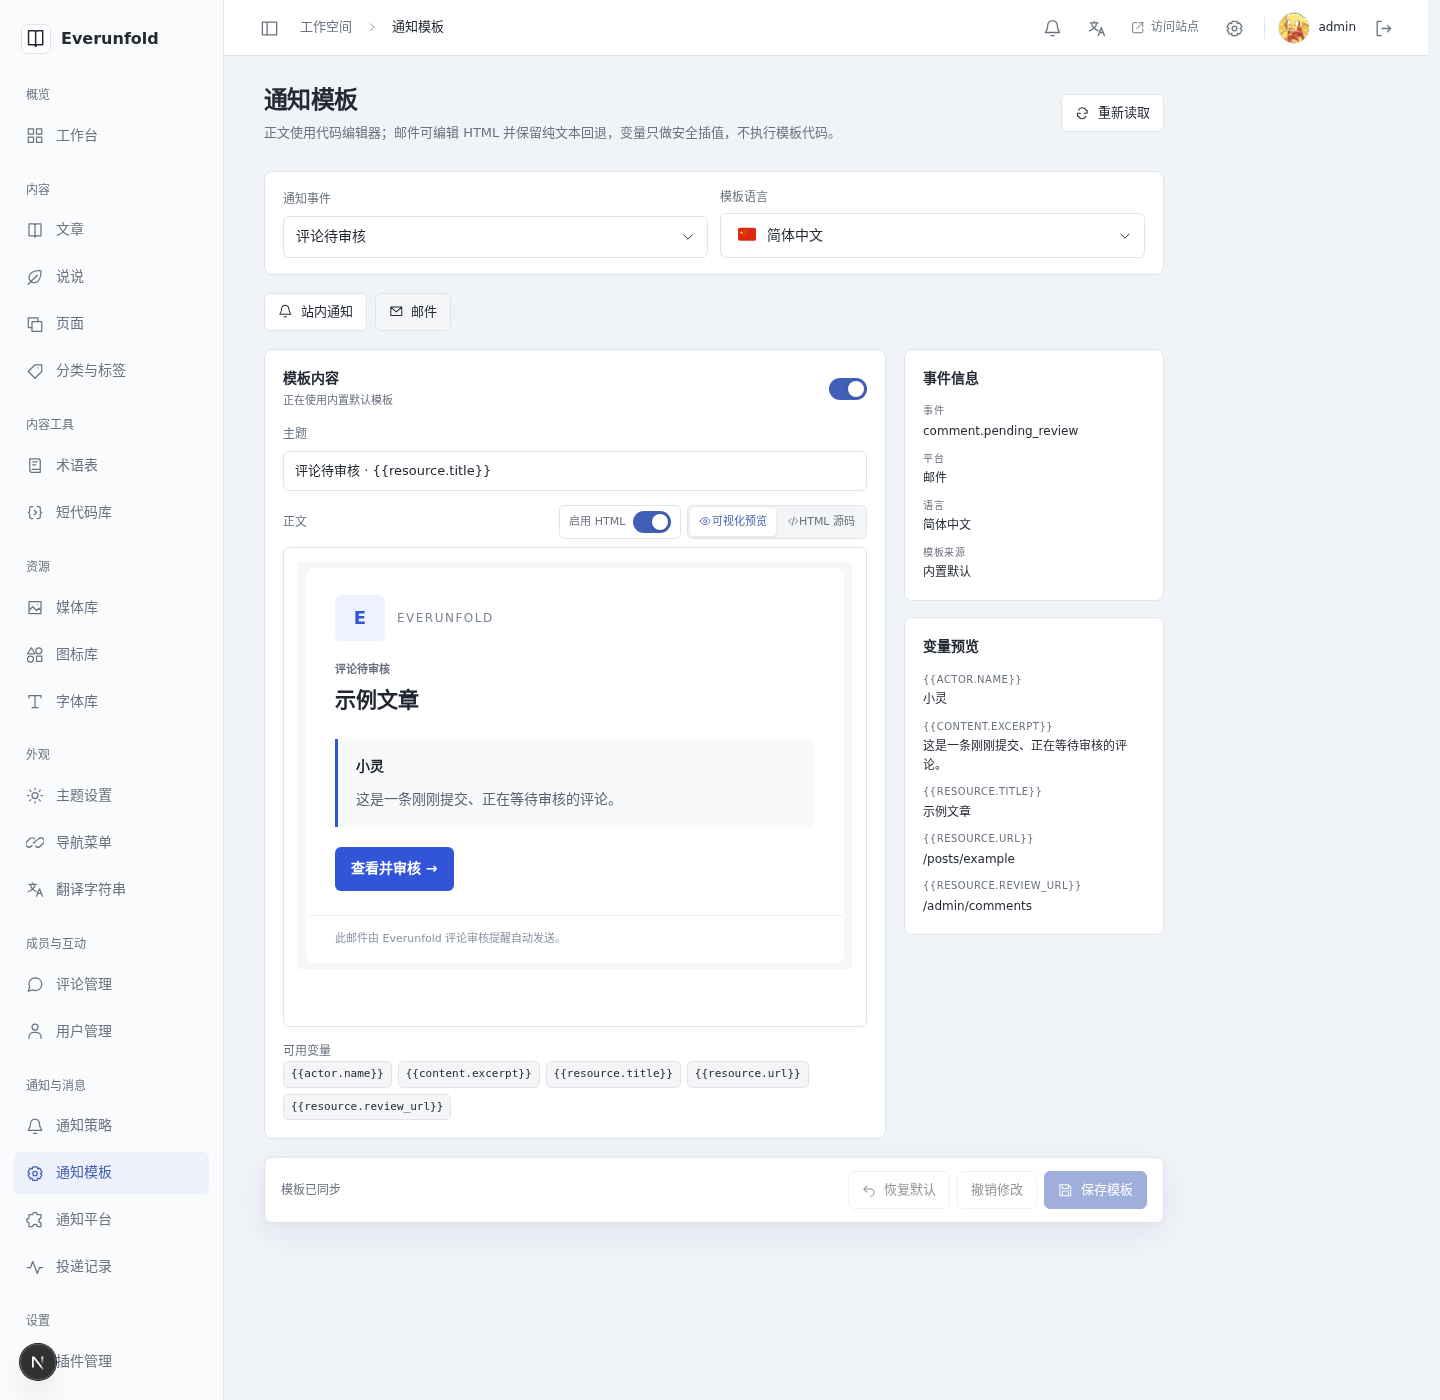
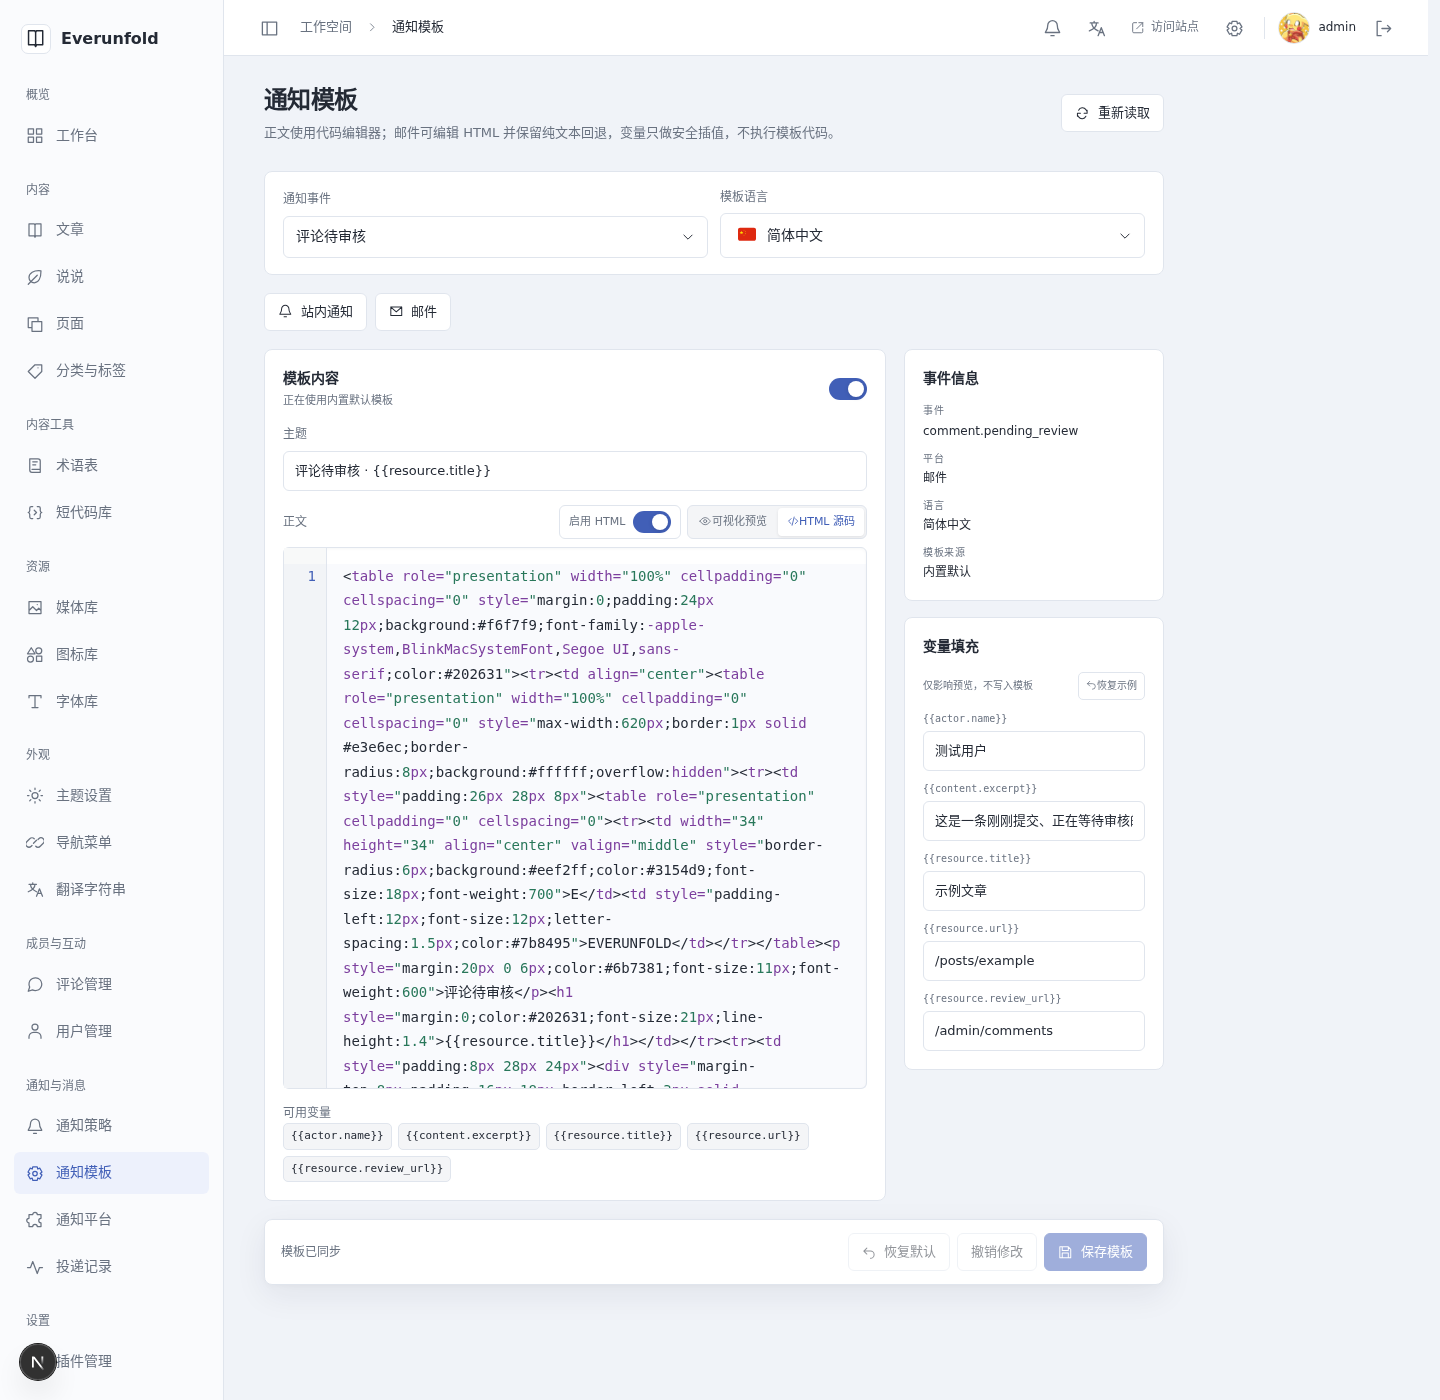
docs: separate notification preview variables

diff --git a/docs/handoff/notification-html-template-verification.md b/docs/handoff/notification-html-template-verification.md
@@ -1,6 +1,6 @@
 # 通知模板代码编辑器与 HTML 邮件验收
 
-版本：notification-html-template-verification-4。日期：2026-11-11。后端HTML开关提交`a592e1c`、前端实现见STATUS。未向外部邮箱发送邮件。
+版本：notification-html-template-verification-5。日期：2026-11-11。后端HTML开关提交`a592e1c`、前端实现见STATUS。未向外部邮箱发送邮件。
 
 ## 已实现
 
@@ -8,6 +8,7 @@
 - 邮件平台使用独立“启用 HTML”开关；关闭时编辑纯文本，开启后可切换“可视化预览 / HTML源码”，关闭不会删除HTML内容，首次启用时从现有纯文本生成安全段落。
 - 默认邮件模板改为后台风格的简约图形卡片：中性背景、细边框、小图形标识、评论摘要和单一操作入口。
 - 可用变量插入当前代码编辑器光标位置；示例人物变量由“小林”改为“小灵”。
+- 变量填充独立为右侧组件，只更新预览值，不修改模板源码；编辑器始终保留 `{{actor.name}}` 等占位符。
 - “可视化预览”直接渲染当前HTML源码，与最终邮件共用同一份内容和清洗链路；下方不再维护重复“安全预览”。
 - 后端对 HTML 变量值先转义，再过滤脚本、表单、iframe、SVG、事件属性和活动 URL。
 - 邮件以`multipart/alternative`发送，纯文本正文始终保留为回退，HTML 为可选展示版本。
@@ -20,6 +21,7 @@
 - 定向测试验证 HTML 注入值转义、脚本/事件属性清理、SMTP 多部分 MIME 和纯文本回退。
 - 1440px与390px实页检查：HTML源码编辑器1个、可视化预览iframe1个、重复“安全预览”数量为0；“小灵”可见、旧“小林”不可见，无水平溢出和`pageerror`。
 - HTML开关关闭后预览iframe数量为0、纯文本代码编辑器1个；再次开启后原HTML模板仍存在，内容未丢失。
+- 将变量 `actor.name` 填为“测试用户”后预览立即更新，切回源码仍为 `{{actor.name}}`，未写入“测试用户”，模板保持同步状态。
 - 保存链路使用浏览器请求夹具确认提交 `html`，未改开发环境中的真实通知模板。
 
 ## 证据

diff --git a/docs/README.md b/docs/README.md
@@ -1,6 +1,6 @@
 # Everunfold 文档入口
 
-[通知模板代码编辑器与 HTML 邮件](development/notifications.md)、[ADR0117](decisions/0117-html-notification-templates.md)及[验收](handoff/notification-html-template-verification.md)：邮件通过独立“启用 HTML”开关控制发送，开启后提供可视化预览与源码双视图，关闭时保留内容并使用纯文本回退。默认邮件模板采用后台一致的简约图形卡片。HTML变量先转义，再按保守标签白名单清洗，并以`multipart/alternative`发送。
+[通知模板代码编辑器与 HTML 邮件](development/notifications.md)、[ADR0117](decisions/0117-html-notification-templates.md)及[验收](handoff/notification-html-template-verification.md)：邮件通过独立“启用 HTML”开关控制发送，开启后提供可视化预览与源码双视图，关闭时保留内容并使用纯文本回退。编辑器始终保存变量占位符，变量填充独立影响预览。默认邮件模板采用后台一致的简约图形卡片。
 
 [多邮件发信配置](development/mail.md)、[ADR0116](decisions/0116-multiple-mail-sender-profiles.md)及[验收](handoff/multi-mail-profile-verification.md)：邮件配置并入“通知与消息 → 通知平台”，每站可维护最多20套 SMTP 发信身份；提醒规则可选择具体配置，未选择时使用默认配置。投递会快照配置身份和修订，停用、删除或配置变化不会静默换号；旧单配置自动兼容，原邮件设置入口保留隐藏跳转。
 

diff --git a/docs/development/notifications.md b/docs/development/notifications.md
@@ -1,6 +1,6 @@
 # 通知系统与通知模板
 
-版本：notifications-5，2026-11-11。架构决定见 [ADR0113](../decisions/0113-notification-events-platforms-and-templates.md)与[ADR0117](../decisions/0117-html-notification-templates.md)。
+版本：notifications-6，2026-11-11。架构决定见 [ADR0113](../decisions/0113-notification-events-platforms-and-templates.md)与[ADR0117](../decisions/0117-html-notification-templates.md)。
 
 ## 概念
 
@@ -64,3 +64,5 @@ registry.notifications.register(
 站内通知与邮件可在同一事件上并存，但同一用户、同一平台在一次事件中至多生成一条投递。SMTP 结果未知、Worker 租约过期或插件异常都不自动重发，记录为 `unknown`。策略与模板每次保存都写设置审计。
 
 HTML“可视化预览”与最终邮件共用同一份HTML和清洗链路，使用无脚本、无同源权限的沙箱 iframe；页面下方不再维护重复预览。它不代表所有邮件客户端都支持相同 CSS。
+
+模板编辑器始终保存 `{{variable.path}}` 占位符。右侧“变量填充”是独立预览组件，可临时填写示例值、恢复默认或清空输入；这些值不进入模板草稿、保存请求或通知数据。

diff --git a/docs/decisions/0117-html-notification-templates.md b/docs/decisions/0117-html-notification-templates.md
@@ -9,7 +9,7 @@
 3. HTML 变量插值先转义事件值，再由后端保守清洗。允许常见排版、链接、图片和表格标签，移除脚本、表单、iframe、SVG、事件属性和活动 URL。
 4. “可视化预览”和最终邮件共用同一份HTML与清洗链路，放在无 `allow-scripts`、无同源权限的沙箱 iframe 中；不再维护页面下方第二套重复预览。
 5. 站内通知仍只消费纯文本，不把邮件 HTML 注入 Inbox。非邮件平台提交 HTML 正文返回422。
-6. 示例人物变量从“小林”改为“小灵”，变量按钮插入HTML源码光标位置；启用 HTML 时若 HTML 为空，从现有纯文本生成安全段落作为起点。
+6. 示例人物变量默认从“小林”改为“小灵”，变量按钮插入HTML源码光标位置。变量填充由独立组件管理，只影响预览，不修改模板源码；启用 HTML 时若 HTML 为空，从现有纯文本生成安全段落作为起点。
 7. 默认邮件模板使用与后台一致的克制样式：中性背景、细边框、小图形标识和少量主题色，不依赖外链图片；纯文本仍作为不可删除的回退版本。
 
 ## 契约

diff --git a/docs/handoff/STATUS.md b/docs/handoff/STATUS.md
@@ -4,6 +4,7 @@
 
 - `notifications-v1 1.3.0`增加显式`html_enabled`；HTML关闭时保留已存内容但不再生成HTML投递，站内通知继续只使用纯文本。
 - 前端邮件模板使用独立“启用 HTML”开关，开启后提供“可视化预览 / HTML源码”；预览直接渲染同一份源码，不再维护下方重复预览。
+- 变量填充独立于模板编辑器，仅改变预览值，不进入模板保存或通知数据。
 - 默认邮件模板使用后台一致的简约图形卡片，中性背景、细边框、小面积主题色，不依赖外链图片。
 - HTML 变量值先转义，随后按保守标签/属性白名单清洗；脚本、表单、iframe、SVG、事件属性和活动 URL 不进入投递 HTML。邮件传输改为`multipart/alternative`，纯文本正文始终保留为回退。
 - 迁移`0047_notification_html_toggle`已应用开发库并通过`alembic check`；非邮件平台提交HTML返回422。
